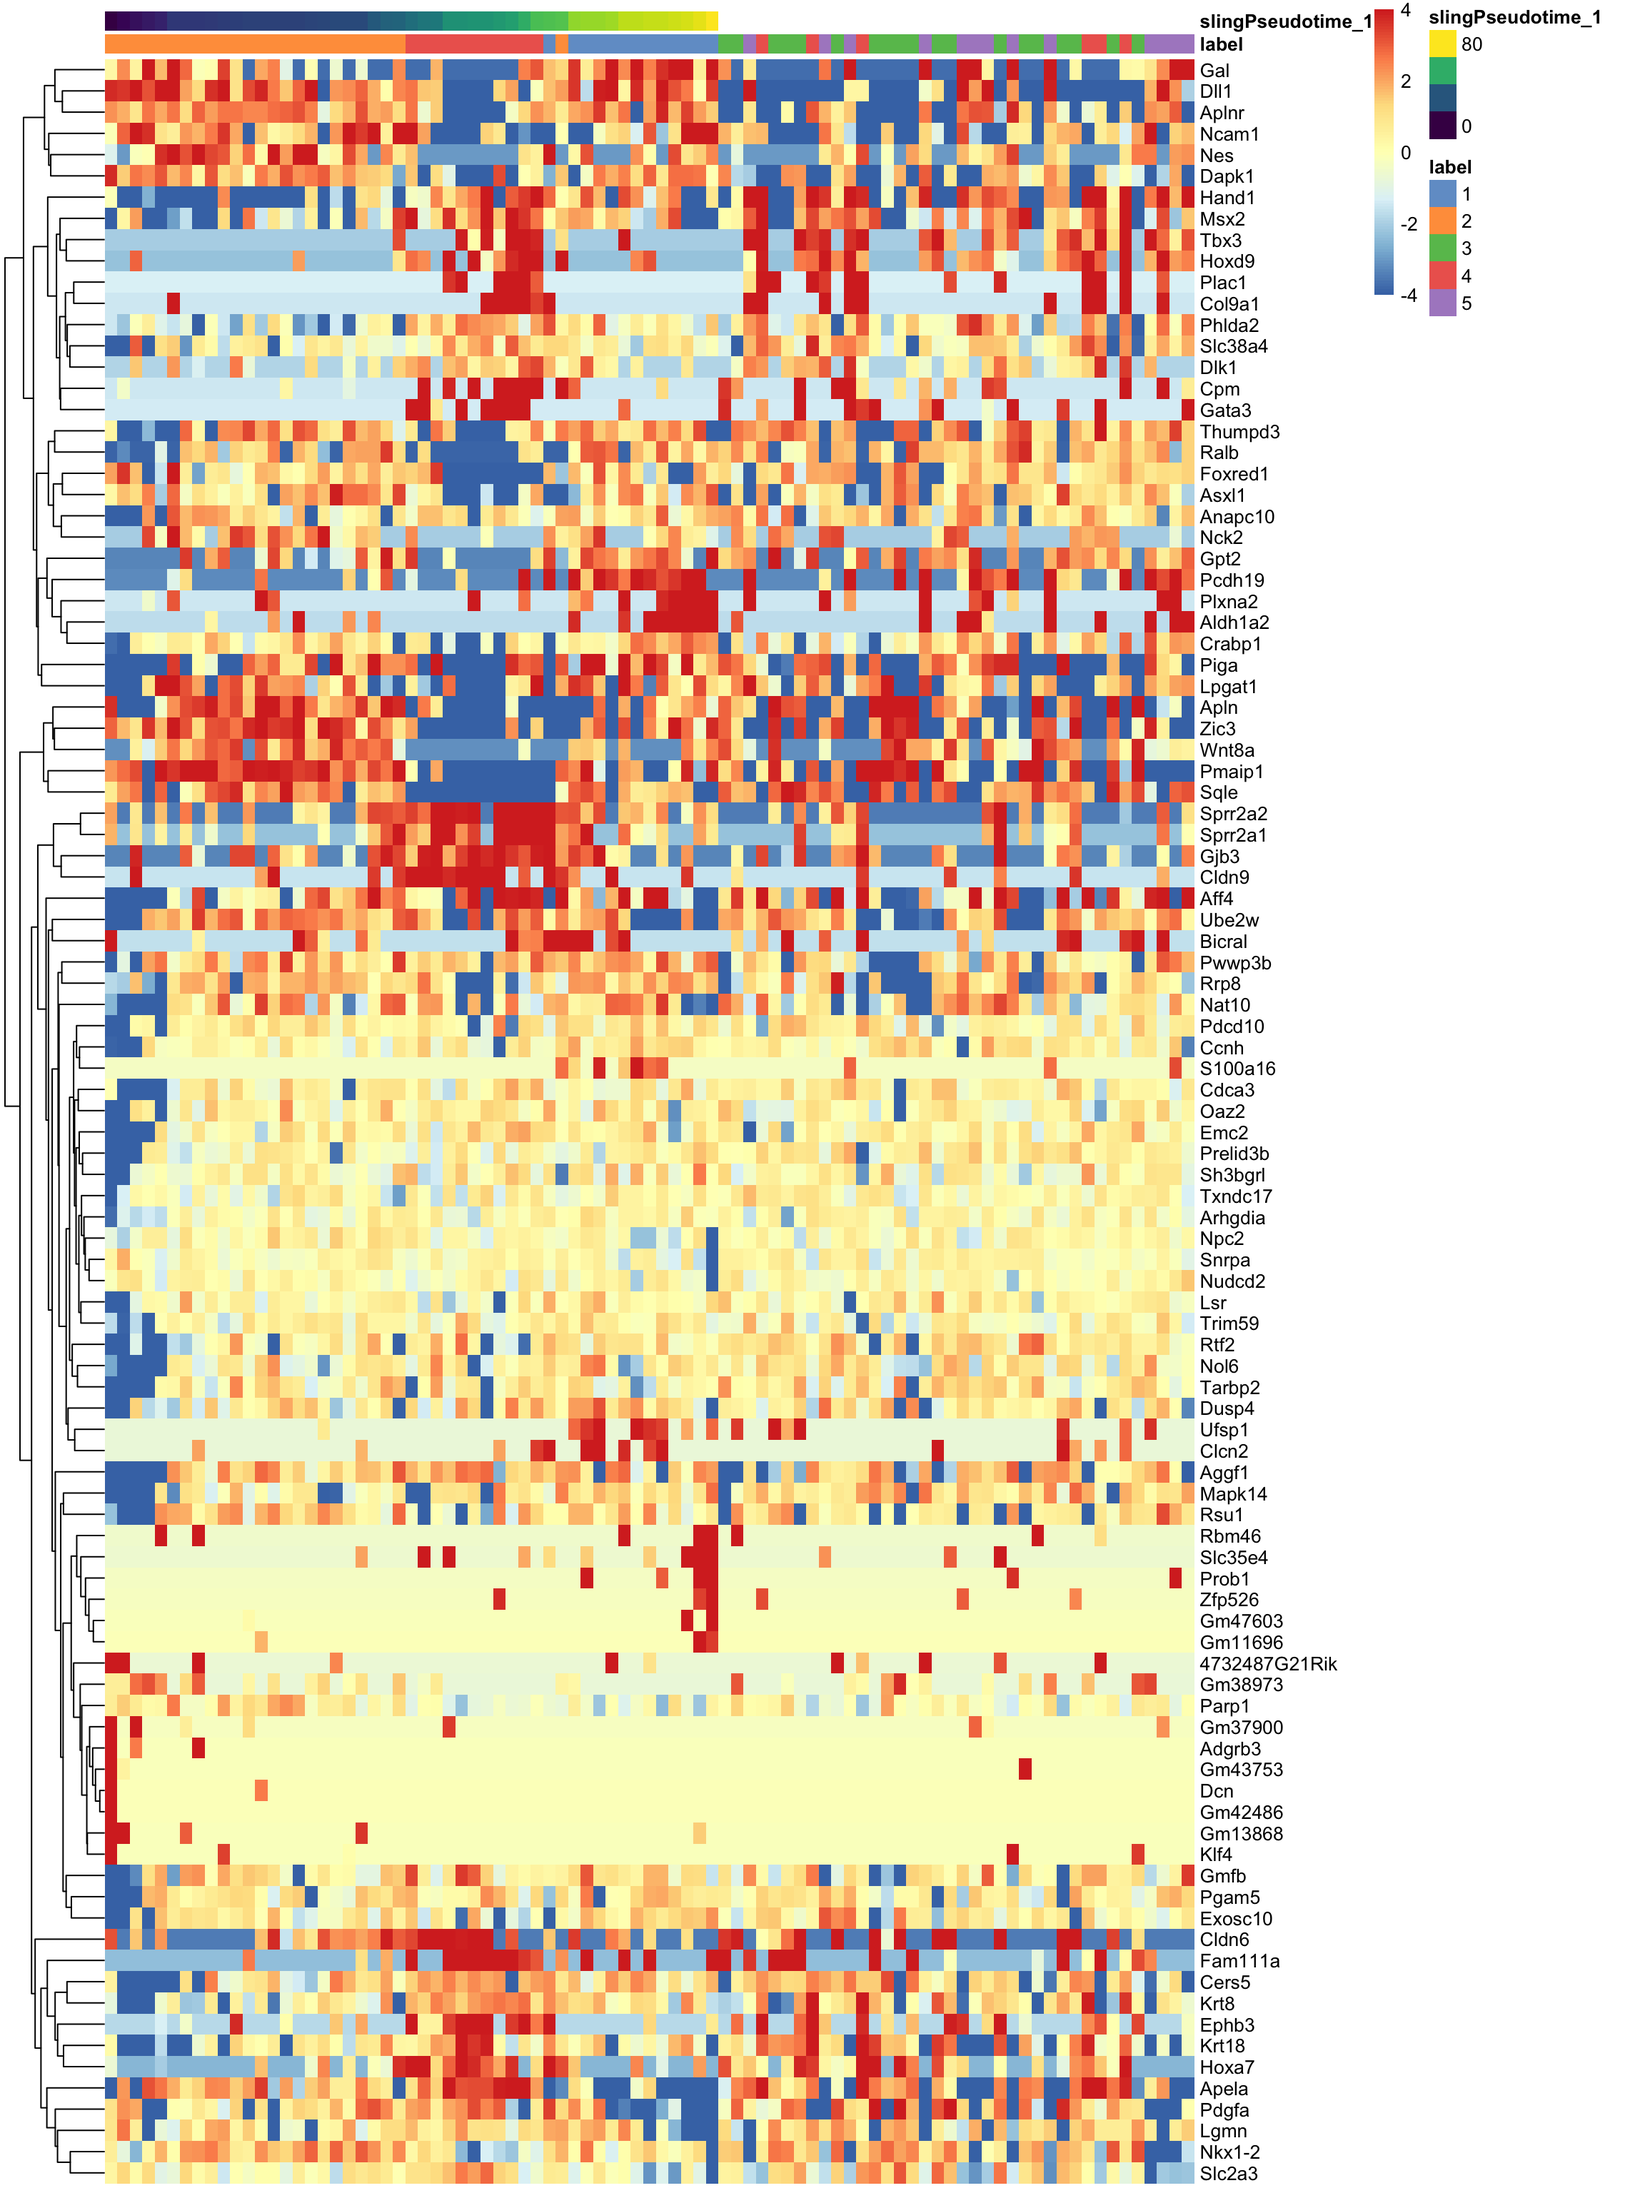
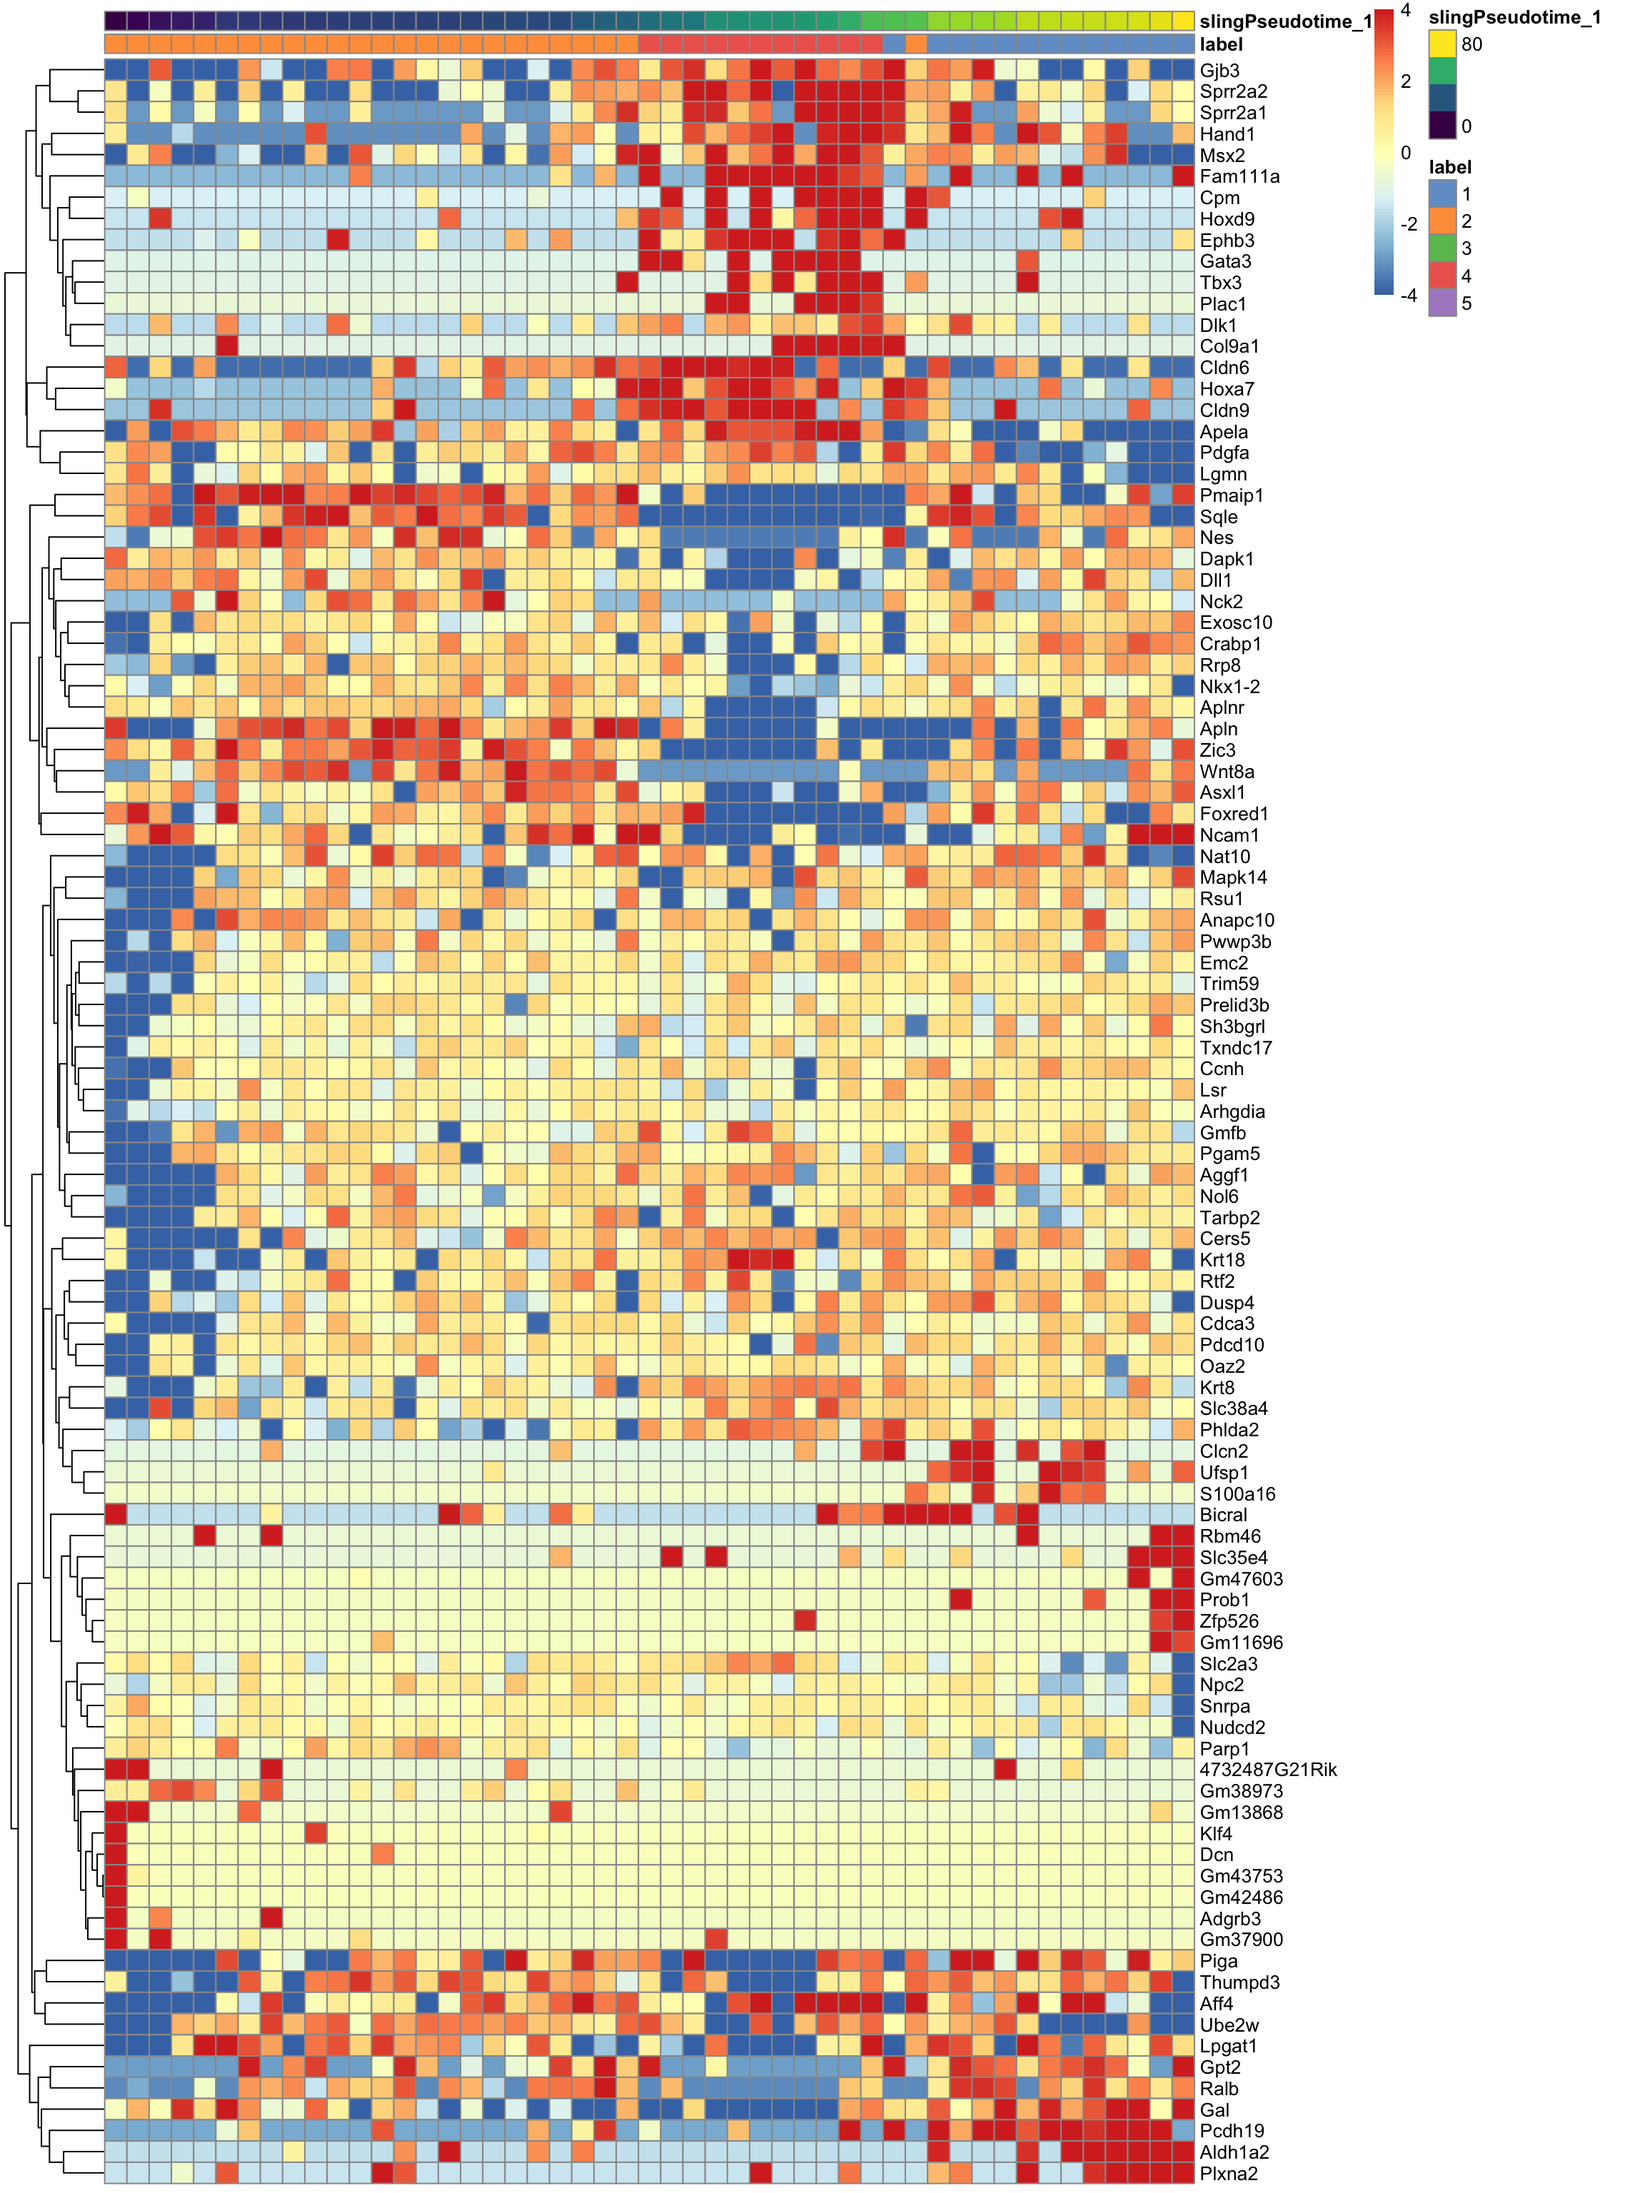
Build

diff --git a/docs/secondary-analysis.html b/docs/secondary-analysis.html
@@ -588,16 +588,16 @@ This reproducible <a href="http://rmarkdown.rstudio.com">R Markdown</a> analysis
 <div class="panel panel-default">
 <div class="panel-heading">
 <p class="panel-title">
-<a data-toggle="collapse" data-parent="#workflowr-checks" href="#strongRepositoryversionstrongahrefhttpsgithubcomjma1991LPMPLHFCtreeb7c9497ad42131a1fe559b1c85bce88dc2026cdbtargetblankb7c9497a"> <span class="glyphicon glyphicon-ok text-success" aria-hidden="true"></span> <strong>Repository version:</strong> <a href="https://github.com/jma1991/LPMP_LHF_C/tree/b7c9497ad42131a1fe559b1c85bce88dc2026cdb" target="_blank">b7c9497</a> </a>
+<a data-toggle="collapse" data-parent="#workflowr-checks" href="#strongRepositoryversionstrongahrefhttpsgithubcomjma1991LPMPLHFCtree4282cfe370ca48799352193ec320a2d20215e772targetblank4282cfea"> <span class="glyphicon glyphicon-ok text-success" aria-hidden="true"></span> <strong>Repository version:</strong> <a href="https://github.com/jma1991/LPMP_LHF_C/tree/4282cfe370ca48799352193ec320a2d20215e772" target="_blank">4282cfe</a> </a>
 </p>
 </div>
[2 lines of base64/hex data omitted]
 <div class="panel-body">
 <p>
 Great! You are using Git for version control. Tracking code development and connecting the code version to the results is critical for reproducibility.
 </p>
 <p>
-The results in this page were generated with repository version <a href="https://github.com/jma1991/LPMP_LHF_C/tree/b7c9497ad42131a1fe559b1c85bce88dc2026cdb" target="_blank">b7c9497</a>. See the <em>Past versions</em> tab to see a history of the changes made to the R Markdown and HTML files.
+The results in this page were generated with repository version <a href="https://github.com/jma1991/LPMP_LHF_C/tree/4282cfe370ca48799352193ec320a2d20215e772" target="_blank">4282cfe</a>. See the <em>Past versions</em> tab to see a history of the changes made to the R Markdown and HTML files.
 </p>
 <p>
 Note that you need to be careful to ensure that all relevant files for the analysis have been committed to Git prior to generating the results (you can use <code>wflow_publish</code> or <code>wflow_git_commit</code>). workflowr only checks the R Markdown file, but you know if there are other scripts or data files that it depends on. Below is the status of the Git repository when the results were generated:
@@ -659,6 +659,40 @@ Message
 </tr>
 </thead>
 <tbody>
+<tr>
+<td>
+Rmd
+</td>
+<td>
+<a href="https://github.com/jma1991/LPMP_LHF_C/blob/4282cfe370ca48799352193ec320a2d20215e772/analysis/secondary-analysis.Rmd" target="_blank">4282cfe</a>
+</td>
+<td>
+James Ashmore
+</td>
+<td>
+2021-03-30
+</td>
+<td>
+Build
+</td>
+</tr>
+<tr>
+<td>
+html
+</td>
+<td>
+<a href="https://rawcdn.githack.com/jma1991/LPMP_LHF_C/1337dad17c89d340f7e5a4e63adeb50e85f8e98a/docs/secondary-analysis.html" target="_blank">1337dad</a>
+</td>
+<td>
+James Ashmore
+</td>
+<td>
+2021-03-30
+</td>
+<td>
+Build
+</td>
+</tr>
 <tr>
 <td>
 Rmd
@@ -1561,7 +1595,7 @@ res &lt;- TSCAN::testPseudotime(sce, pseudotime = sce$slingPseudotime_1)</code><
 <pre class="r"><code>ind &lt;- head(order(abs(sig$logFC), decreasing = TRUE), n = 100)</code></pre>
 <p>Plot heatmap of significant genes:</p>
 <pre class="r"><code>plotHeatmap(
-  object = sce,
+  object = sce[, !is.na(sce$slingPseudotime_1)],
   features = rownames(sig)[ind],
   exprs_values = &quot;logcounts&quot;,
   center = TRUE,
@@ -1571,6 +1605,43 @@ res &lt;- TSCAN::testPseudotime(sce, pseudotime = sce$slingPseudotime_1)</code><
   order_columns_by = &quot;slingPseudotime_1&quot;,
 )</code></pre>
 <p><img src="figure/secondary-analysis.Rmd/unnamed-chunk-50-1.png" width="1152" style="display: block; margin: auto;" /></p>
+<p>
+<button type="button" class="btn btn-default btn-xs btn-workflowr btn-workflowr-fig" data-toggle="collapse" data-target="#fig-unnamed-chunk-50-1">
+Past versions of unnamed-chunk-50-1.png
+</button>
+</p>
+<div id="fig-unnamed-chunk-50-1" class="collapse">
+<div class="table-responsive">
+<table class="table table-condensed table-hover">
+<thead>
+<tr>
+<th>
+Version
+</th>
+<th>
+Author
+</th>
+<th>
+Date
+</th>
+</tr>
+</thead>
+<tbody>
+<tr>
+<td>
+<a href="https://github.com/jma1991/LPMP_LHF_C/blob/1337dad17c89d340f7e5a4e63adeb50e85f8e98a/docs/figure/secondary-analysis.Rmd/unnamed-chunk-50-1.png" target="_blank">1337dad</a>
+</td>
+<td>
+James Ashmore
+</td>
+<td>
+2021-03-30
+</td>
+</tr>
+</tbody>
+</table>
+</div>
+</div>
 </div>
 </div>
 <div id="curve-2" class="section level3 tabset">
@@ -1703,7 +1774,7 @@ res &lt;- TSCAN::testPseudotime(sce, pseudotime = sce$slingPseudotime_2)</code><
 <pre class="r"><code>ind &lt;- head(order(abs(sig$logFC), decreasing = TRUE), n = 100)</code></pre>
 <p>Plot heatmap of significant genes:</p>
 <pre class="r"><code>plotHeatmap(
-  object = sce,
+  object = sce[, !is.na(sce$slingPseudotime_2)],
   features = rownames(sig)[ind],
   exprs_values = &quot;logcounts&quot;,
   center = TRUE,
@@ -1713,6 +1784,43 @@ res &lt;- TSCAN::testPseudotime(sce, pseudotime = sce$slingPseudotime_2)</code><
   order_columns_by = &quot;slingPseudotime_2&quot;,
 )</code></pre>
 <p><img src="figure/secondary-analysis.Rmd/unnamed-chunk-70-1.png" width="1152" style="display: block; margin: auto;" /></p>
+<p>
+<button type="button" class="btn btn-default btn-xs btn-workflowr btn-workflowr-fig" data-toggle="collapse" data-target="#fig-unnamed-chunk-70-1">
+Past versions of unnamed-chunk-70-1.png
+</button>
+</p>
+<div id="fig-unnamed-chunk-70-1" class="collapse">
+<div class="table-responsive">
+<table class="table table-condensed table-hover">
+<thead>
+<tr>
+<th>
+Version
+</th>
+<th>
+Author
+</th>
+<th>
+Date
+</th>
+</tr>
+</thead>
+<tbody>
+<tr>
+<td>
+<a href="https://github.com/jma1991/LPMP_LHF_C/blob/1337dad17c89d340f7e5a4e63adeb50e85f8e98a/docs/figure/secondary-analysis.Rmd/unnamed-chunk-70-1.png" target="_blank">1337dad</a>
+</td>
+<td>
+James Ashmore
+</td>
+<td>
+2021-03-30
+</td>
+</tr>
+</tbody>
+</table>
+</div>
+</div>
 </div>
 </div>
 <div id="curve-3" class="section level3 tabset">
@@ -1845,7 +1953,7 @@ res &lt;- TSCAN::testPseudotime(sce, pseudotime = sce$slingPseudotime_3)</code><
 <pre class="r"><code>ind &lt;- head(order(abs(sig$logFC), decreasing = TRUE), n = 100)</code></pre>
 <p>Plot heatmap of significant genes:</p>
 <pre class="r"><code>plotHeatmap(
-  object = sce,
+  object = sce[, !is.na(sce$slingPseudotime_3)],
   features = rownames(sig)[ind],
   exprs_values = &quot;logcounts&quot;,
   center = TRUE,
@@ -1855,6 +1963,43 @@ res &lt;- TSCAN::testPseudotime(sce, pseudotime = sce$slingPseudotime_3)</code><
   order_columns_by = &quot;slingPseudotime_3&quot;,
 )</code></pre>
 <p><img src="figure/secondary-analysis.Rmd/unnamed-chunk-90-1.png" width="1152" style="display: block; margin: auto;" /></p>
+<p>
+<button type="button" class="btn btn-default btn-xs btn-workflowr btn-workflowr-fig" data-toggle="collapse" data-target="#fig-unnamed-chunk-90-1">
+Past versions of unnamed-chunk-90-1.png
+</button>
+</p>
+<div id="fig-unnamed-chunk-90-1" class="collapse">
+<div class="table-responsive">
+<table class="table table-condensed table-hover">
+<thead>
+<tr>
+<th>
+Version
+</th>
+<th>
+Author
+</th>
+<th>
+Date
+</th>
+</tr>
+</thead>
+<tbody>
+<tr>
+<td>
+<a href="https://github.com/jma1991/LPMP_LHF_C/blob/1337dad17c89d340f7e5a4e63adeb50e85f8e98a/docs/figure/secondary-analysis.Rmd/unnamed-chunk-90-1.png" target="_blank">1337dad</a>
+</td>
+<td>
+James Ashmore
+</td>
+<td>
+2021-03-30
+</td>
+</tr>
+</tbody>
+</table>
+</div>
+</div>
 </div>
 </div>
 </div>

diff --git a/docs/index.html b/docs/index.html
@@ -441,16 +441,16 @@ This reproducible <a href="http://rmarkdown.rstudio.com">R Markdown</a> analysis
 <div class="panel panel-default">
 <div class="panel-heading">
 <p class="panel-title">
-<a data-toggle="collapse" data-parent="#workflowr-checks" href="#strongRepositoryversionstrongahrefhttpsgithubcomjma1991LPMPLHFCtreeb7c9497ad42131a1fe559b1c85bce88dc2026cdbtargetblankb7c9497a"> <span class="glyphicon glyphicon-ok text-success" aria-hidden="true"></span> <strong>Repository version:</strong> <a href="https://github.com/jma1991/LPMP_LHF_C/tree/b7c9497ad42131a1fe559b1c85bce88dc2026cdb" target="_blank">b7c9497</a> </a>
+<a data-toggle="collapse" data-parent="#workflowr-checks" href="#strongRepositoryversionstrongahrefhttpsgithubcomjma1991LPMPLHFCtree4282cfe370ca48799352193ec320a2d20215e772targetblank4282cfea"> <span class="glyphicon glyphicon-ok text-success" aria-hidden="true"></span> <strong>Repository version:</strong> <a href="https://github.com/jma1991/LPMP_LHF_C/tree/4282cfe370ca48799352193ec320a2d20215e772" target="_blank">4282cfe</a> </a>
 </p>
 </div>
[2 lines of base64/hex data omitted]
 <div class="panel-body">
 <p>
 Great! You are using Git for version control. Tracking code development and connecting the code version to the results is critical for reproducibility.
 </p>
 <p>
-The results in this page were generated with repository version <a href="https://github.com/jma1991/LPMP_LHF_C/tree/b7c9497ad42131a1fe559b1c85bce88dc2026cdb" target="_blank">b7c9497</a>. See the <em>Past versions</em> tab to see a history of the changes made to the R Markdown and HTML files.
+The results in this page were generated with repository version <a href="https://github.com/jma1991/LPMP_LHF_C/tree/4282cfe370ca48799352193ec320a2d20215e772" target="_blank">4282cfe</a>. See the <em>Past versions</em> tab to see a history of the changes made to the R Markdown and HTML files.
 </p>
 <p>
 Note that you need to be careful to ensure that all relevant files for the analysis have been committed to Git prior to generating the results (you can use <code>wflow_publish</code> or <code>wflow_git_commit</code>). workflowr only checks the R Markdown file, but you know if there are other scripts or data files that it depends on. Below is the status of the Git repository when the results were generated:
@@ -512,6 +512,23 @@ Message
 </tr>
 </thead>
 <tbody>
+<tr>
+<td>
+html
+</td>
+<td>
+<a href="https://rawcdn.githack.com/jma1991/LPMP_LHF_C/1337dad17c89d340f7e5a4e63adeb50e85f8e98a/docs/index.html" target="_blank">1337dad</a>
+</td>
+<td>
+James Ashmore
+</td>
+<td>
+2021-03-30
+</td>
+<td>
+Build
+</td>
+</tr>
 <tr>
 <td>
 html
